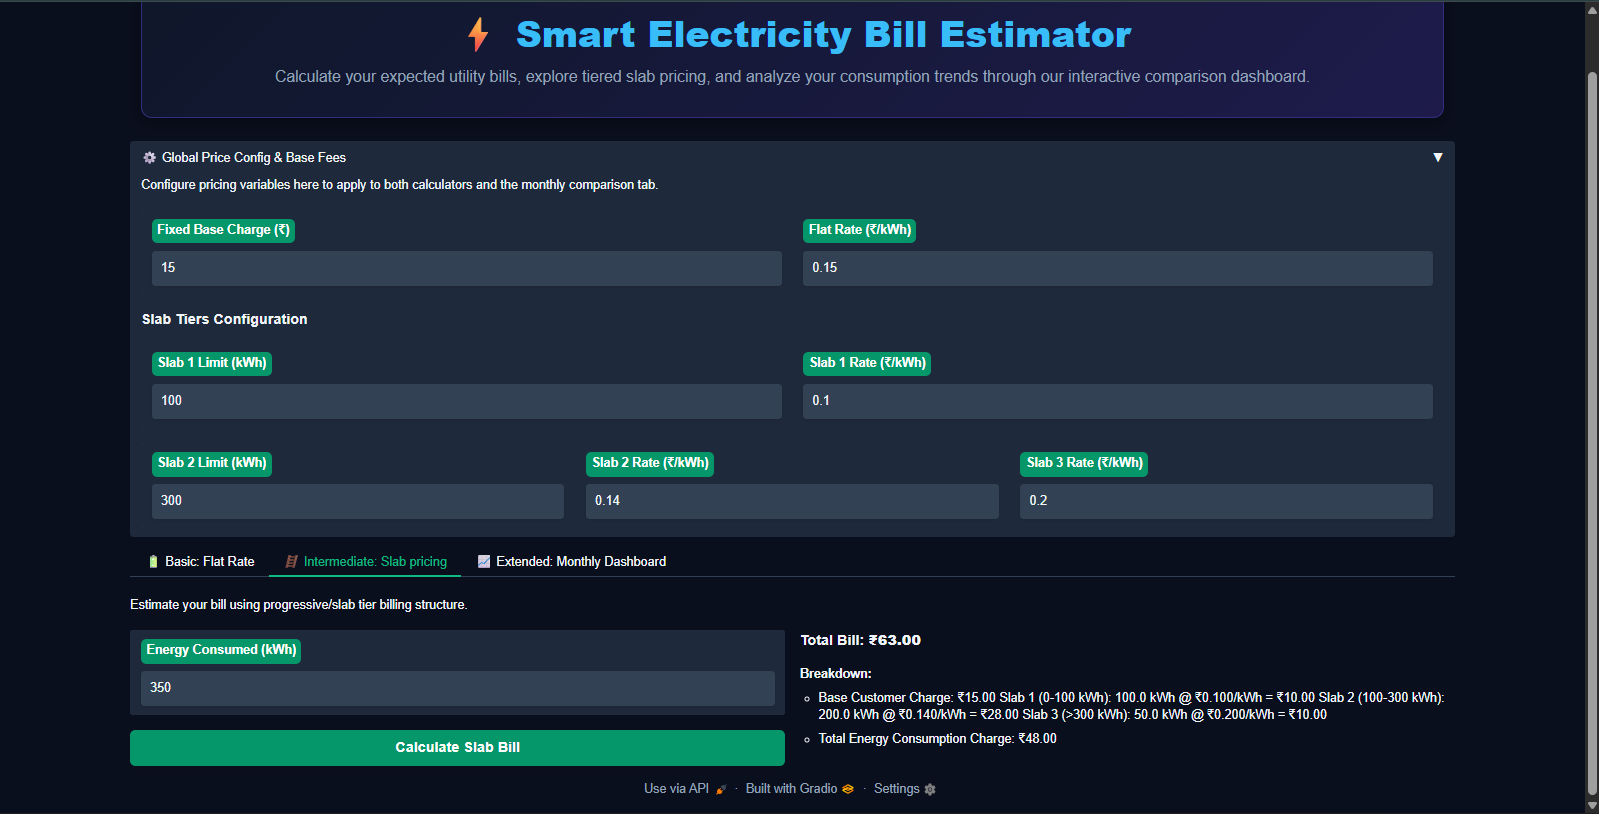
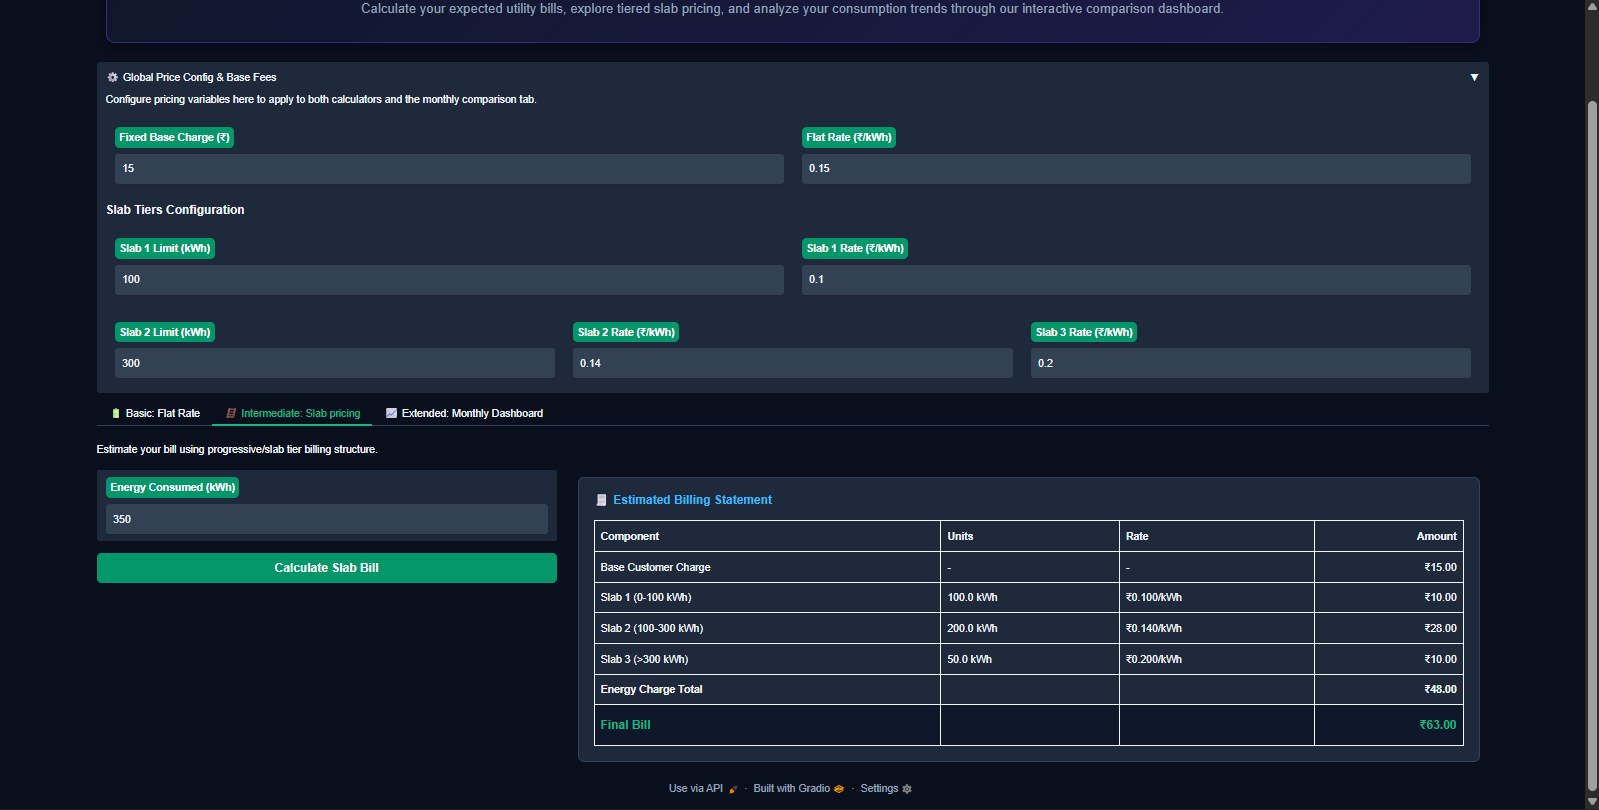
feat: integrate application logging and upgrade slab bill UI to an HTML table format

diff --git a/app.py b/app.py
@@ -1,4 +1,25 @@
 # pyrefly: ignore [missing-import]
+import warnings
+import logging
+
+# Setup warnings and logging immediately, before 3rd party libraries
+warnings.filterwarnings("ignore", category=DeprecationWarning)
+warnings.filterwarnings("ignore", category=FutureWarning)
+
+try:
+    from starlette.exceptions import StarletteDeprecationWarning
+    warnings.filterwarnings("ignore", category=StarletteDeprecationWarning)
+except ImportError:
+    pass
+
+logging.basicConfig(
+    level=logging.INFO,
+    format="%(asctime)s | %(levelname)s | %(message)s",
+    datefmt="%Y-%m-%d %H:%M:%S"
+)
+logger = logging.getLogger(__name__)
+logger.info("Application initialized")
+
 import gradio as gr
 import pandas as pd
 import plotly.graph_objects as go
@@ -22,10 +43,14 @@ def calculate_flat_bill(units: float, flat_rate: float, base_charge: float) -> T
         tuple[float, float]: Total bill and consumption charge.
     """
     if units is None or flat_rate is None or base_charge is None:
+        logger.warning("Validation error: Missing input fields in calculate_flat_bill")
         raise ValueError("All input fields must be filled.")
     
     if units < 0 or flat_rate < 0 or base_charge < 0:
+        logger.warning("Validation error: Negative inputs in calculate_flat_bill")
         raise ValueError("Inputs cannot be negative. Please enter valid positive values.")
+
+    logger.debug(f"Flat bill calculation triggered for {units} kWh")
 
     consumption_charge = units * flat_rate
     total_bill = consumption_charge + base_charge
@@ -48,16 +73,22 @@ def calculate_slab_bill(units: float, slab1_limit: float, slab1_rate: float, sla
         tuple[float, float, str]: Total bill, consumption charge, and a breakdown string.
     """
     if None in (units, slab1_limit, slab1_rate, slab2_limit, slab2_rate, slab3_rate, base_charge):
+        logger.warning("Validation error: Missing input fields in calculate_slab_bill")
         raise ValueError("All input fields must be filled.")
         
     if units < 0 or base_charge < 0 or slab1_limit < 0 or slab2_limit < 0:
+        logger.warning("Validation error: Negative inputs in calculate_slab_bill")
         raise ValueError("Values cannot be negative. Please enter valid positive values.")
         
     if slab1_limit >= slab2_limit:
+        logger.warning("Validation error: Invalid slab limits in calculate_slab_bill")
         raise ValueError("Slab 1 limit must be strictly less than Slab 2 limit.")
         
     if slab1_rate < 0 or slab2_rate < 0 or slab3_rate < 0:
+        logger.warning("Validation error: Negative rates in calculate_slab_bill")
         raise ValueError("Rates cannot be negative.")
+
+    logger.debug(f"Slab bill calculation triggered for {units} kWh")
 
     breakdown = []
     consumption_charge = 0.0
@@ -98,6 +129,7 @@ def calculate_slab_bill(units: float, slab1_limit: float, slab1_rate: float, sla
 def basic_calculator(units: float, flat_rate: float, base_charge: float) -> str:
     try:
         total, consumption = calculate_flat_bill(units, flat_rate, base_charge)
+        logger.info("Flat bill calculated")
         return (
             f"### Total Bill: **₹{total:.2f}**\n\n"
             f"**Breakdown:**\n"
@@ -112,15 +144,73 @@ def slab_calculator(units: float, slab1_limit: float, slab1_rate: float, slab2_l
         total, consumption, breakdown = calculate_slab_bill(
             units, slab1_limit, slab1_rate, slab2_limit, slab2_rate, slab3_rate, base_charge
         )
-        return (
-            f"### Total Bill: **₹{total:.2f}**\n\n"
-            f"**Breakdown:**\n"
-            f"- Base Customer Charge: ₹{base_charge:.2f}\n"
-            f"{breakdown}\n"
-            f"- Total Energy Consumption Charge: ₹{consumption:.2f}"
-        )
+        logger.info("Slab bill calculated")
+        
+        # Build HTML table
+        html = f"""
+        <div style="background-color: #1e293b; padding: 20px; border-radius: 8px; border: 1px solid #334155;">
+            <h3 style="margin-top: 0; color: #38bdf8; margin-bottom: 15px;">🧾 Estimated Billing Statement</h3>
+            <table style="width: 100%; border-collapse: collapse; color: #e2e8f0; font-size: 14px; text-align: left;">
+                <thead>
+                    <tr style="border-bottom: 2px solid #475569; color: #94a3b8;">
+                        <th style="padding: 10px 8px;">Component</th>
+                        <th style="padding: 10px 8px;">Units</th>
+                        <th style="padding: 10px 8px;">Rate</th>
+                        <th style="padding: 10px 8px; text-align: right;">Amount</th>
+                    </tr>
+                </thead>
+                <tbody>
+                    <tr style="border-bottom: 1px solid #334155;">
+                        <td style="padding: 10px 8px;">Base Customer Charge</td>
+                        <td style="padding: 10px 8px;">-</td>
+                        <td style="padding: 10px 8px;">-</td>
+                        <td style="padding: 10px 8px; text-align: right;">₹{base_charge:.2f}</td>
+                    </tr>
+        """
+        
+        if breakdown == "No consumption charge applied (0 kWh).":
+            html += f"""
+                    <tr style="border-bottom: 1px solid #334155;">
+                        <td style="padding: 10px 8px; color: #94a3b8;" colspan="4">No consumption charge applied (0 kWh)</td>
+                    </tr>
+            """
+        else:
+            for line in breakdown.split('\n'):
+                if not line.strip(): continue
+                # Parse: "Slab 1 (0-100 kWh): 100.0 kWh @ ₹0.100/kWh = ₹10.00"
+                comp, rest = line.split(': ', 1)
+                units_rate, amt = rest.split(' = ', 1)
+                units_str, rate_str = units_rate.split(' @ ', 1)
+                html += f"""
+                    <tr style="border-bottom: 1px solid #334155;">
+                        <td style="padding: 10px 8px;">{comp}</td>
+                        <td style="padding: 10px 8px;">{units_str}</td>
+                        <td style="padding: 10px 8px;">{rate_str}</td>
+                        <td style="padding: 10px 8px; text-align: right;">{amt}</td>
+                    </tr>
+                """
+                
+        html += f"""
+                    <tr style="border-bottom: 2px solid #475569;">
+                        <td style="padding: 10px 8px; font-weight: bold;">Energy Charge Total</td>
+                        <td style="padding: 10px 8px;"></td>
+                        <td style="padding: 10px 8px;"></td>
+                        <td style="padding: 10px 8px; text-align: right; font-weight: bold;">₹{consumption:.2f}</td>
+                    </tr>
+                    <tr style="background-color: #0f172a;">
+                        <td style="padding: 15px 8px; font-weight: bold; font-size: 16px; color: #10b981;">Final Bill</td>
+                        <td style="padding: 15px 8px;"></td>
+                        <td style="padding: 15px 8px;"></td>
+                        <td style="padding: 15px 8px; text-align: right; font-weight: bold; font-size: 16px; color: #10b981;">₹{total:.2f}</td>
+                    </tr>
+                </tbody>
+            </table>
+        </div>
+        """
+        
+        return html
     except Exception as e:
-        return f"⚠️ **Error:** {str(e)}"
+        return f"<div style='color: #ef4444;'>⚠️ **Error:** {str(e)}</div>"
 
 def generate_comparison_charts(mode: str, jan: float, feb: float, mar: float, apr: float, may: float, jun: float, jul: float, aug: float, sep: float, oct: float, nov: float, dec: float, flat_rate: float, slab1_limit: float, slab1_rate: float, slab2_limit: float, slab2_rate: float, slab3_rate: float, base_charge: float) -> Tuple[go.Figure, str]:
     try:
@@ -133,9 +223,13 @@ def generate_comparison_charts(mode: str, jan: float, feb: float, mar: float, ap
 
         # Validate inputs
         if any(u is None or u < 0 for u in usages):
+            logger.warning("Validation error: Invalid usages in dashboard generation")
             raise ValueError("All monthly usages must be filled and non-negative.")
         if flat_rate is None or base_charge is None:
+            logger.warning("Validation error: Missing global settings in dashboard generation")
             raise ValueError("Flat rate and base charge are required for comparison.")
+        
+
         
         flat_bills = []
         slab_bills = []
@@ -252,6 +346,7 @@ def generate_comparison_charts(mode: str, jan: float, feb: float, mar: float, ap
         </div>
         """
 
+        logger.info("Dashboard generated successfully")
         return fig, summary_html
 
     except Exception as e:
@@ -346,8 +441,8 @@ with gr.Blocks() as demo:
                 with gr.Column(scale=1):
                     slab_units = gr.Number(label="Energy Consumed (kWh)", value=350, minimum=0)
                     calc_slab_btn = gr.Button("Calculate Slab Bill", variant="primary")
-                with gr.Column(scale=1):
-                    slab_output = gr.Markdown("### Results will appear here after calculation.")
+                with gr.Column(scale=2):
+                    slab_output = gr.HTML("<div style='color: #64748b; padding-top: 20px;'>Results will appear here after calculation.</div>")
             
             calc_slab_btn.click(
                 fn=slab_calculator,
@@ -402,6 +497,8 @@ with gr.Blocks() as demo:
             )
 
 if __name__ == "__main__":
+    logger.info("Configuration loaded")
+    logger.info("Gradio server starting...")
     demo.launch(
         server_name="127.0.0.1",
         server_port=7860,